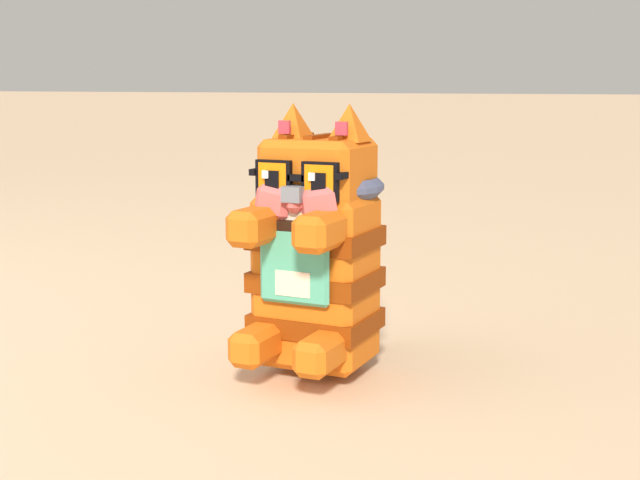
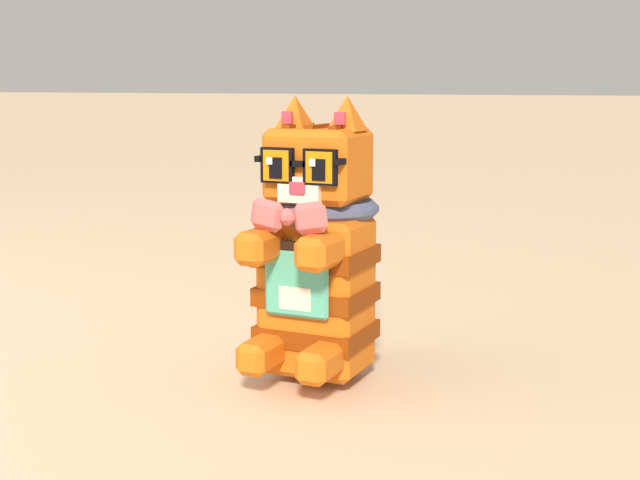
assets: seat the upright cat's head on the collar so the face shows
In the upright pose the head kept the quadruped neck joint and sank into
the top of the body, so the raised front paws covered the muzzle, the
collar ring cut through the head at eye level and the bow tie sat over
the mouth. Poses can now move the Head joint (head_offset, also in
Roblox axes in the manifest); upright moves it 0.32 studs onto the
collar, and the upright BowTie slot sits on the collar above the paws.

Claude-Session: https://claude.ai/code/session_019pgK9B4ra9DvizCEwxEQkX

Changed region(s): [[0.3438, 0.1875, 0.625, 0.8438], [0.9375, 0.1875, 1.0, 0.2188], [0.6562, 0.1875, 0.6875, 0.2188]]

diff --git a/assets/cat-cafe/blender/poses.py b/assets/cat-cafe/blender/poses.py
@@ -2,8 +2,10 @@
 
 A pose moves the whole cat (Body, Head, Tail together) by `rot` degrees (Blender XYZ
 Euler) about the cat-local point `pivot`, then by `offset`, and adds a local rotation
-to the Head and the Tail about their own joints. Positions are in studs, Blender axes
-(Z up, -Y forward); the manifest also gives every value in Roblox axes.
+to the Head and the Tail about their own joints. An optional `head_offset` (cat-local)
+moves the Head joint, for poses where the neck sits somewhere else on the body.
+Positions are in studs, Blender axes (Z up, -Y forward); the manifest also gives every
+value in Roblox axes.
 Roblox: position (x, y, z) -> (-x, z, y), so the front is -Z (LookVector). *_angles_roblox_deg
 go to CFrame.Angles(math.rad(x), math.rad(y), math.rad(z)); body_cframe_roblox is the
 same Body CFrame as CFrame.new(table.unpack(t)), relative to the prop pivot or HumanoidRootPart.
@@ -20,6 +22,7 @@ import common
 # name -> pose. Rescue poses are relative to the prop's pivot.
 POSES = {
     "upright": dict(pivot=(0, 0.5, 0), rot=(-90, 0, 0), offset=(0, 0, 0.3), head=(90, 0, 0), tail=(80, 0, 0),
+                    head_offset=(0, -0.32, 0),  # standing, -Y is up: seats the head on the collar, clear of the paws
                     note="Stands on the hind legs. Same parts; Head pitched back to face forward. Accessories keep their offsets."),
     "carried": dict(pivot=(0, 0, 0), rot=(0, 0, 90), offset=(0, -1.05, -0.4), head=(-10, 0, 0), tail=(-40, 0, 0),
                     note="Cradled across the chest, facing the character's left, so the camera behind the player "
@@ -45,6 +48,10 @@ def _local(angles):
     return Euler([math.radians(a) for a in angles], "XYZ").to_matrix().to_4x4()
 
 
+def _head_shift(pose):
+    return Matrix.Translation(Vector(pose.get("head_offset", (0, 0, 0))))
+
+
 def posed_copies(cat_objs, pose, world=Matrix.Identity(4), prefix="_v_"):
     """Copy a cat's parts and put them in `pose`, under an optional world transform."""
     M = world @ pose_matrix(pose)
@@ -52,12 +59,13 @@ def posed_copies(cat_objs, pose, world=Matrix.Identity(4), prefix="_v_"):
     for ob in cat_objs:
         c = ob.copy()
         c.name = prefix + ob.name
-        extra = Matrix.Identity(4)
+        extra = shift = Matrix.Identity(4)
         if ob.name.endswith("_Head"):
             extra = _local(pose["head"])
+            shift = _head_shift(pose)
         elif ob.name.endswith("_Tail"):
             extra = _local(pose["tail"])
-        c.matrix_world = M @ ob.matrix_world @ extra
+        c.matrix_world = M @ shift @ ob.matrix_world @ extra
         c.hide_render = False
         bpy.context.scene.collection.objects.link(c)
         out.append(c)
@@ -81,11 +89,13 @@ def accessory_copies(built, cat_objs, world=Matrix.Identity(4), pose=None, names
             part, off, r = accessories.ATTACH_UPRIGHT[n]
             acc_rot = _local(r)
         extra = Matrix.Identity(4)
+        shift = Matrix.Identity(4)
         if pose and part == "Head":
             extra = _local(pose["head"])
+            shift = _head_shift(pose)
         elif pose and part == "Tail":
             extra = _local(pose["tail"])
-        base = parts[part].matrix_world @ extra @ Matrix.Translation(Vector(off)) @ acc_rot
+        base = shift @ parts[part].matrix_world @ extra @ Matrix.Translation(Vector(off)) @ acc_rot
         for ob in src:
             c = ob.copy()
             c.name = "_v_" + ob.name
@@ -115,6 +125,8 @@ def manifest_pose(pose):
         "body_angles_roblox_deg": angles,
         "body_cframe_roblox": pos + [round(Rr[i][j], 4) + 0.0 for i in range(3) for j in range(3)],
         "head_angles_roblox_deg": common.euler_to_roblox(pose["head"]),
+        "head_offset_blender": list(pose.get("head_offset", (0, 0, 0))),
+        "head_offset_roblox": common.to_roblox(pose.get("head_offset", (0, 0, 0))),
         "tail_angles_roblox_deg": common.euler_to_roblox(pose["tail"]),
         "note": pose.get("note", ""),
     }

diff --git a/assets/cat-cafe/blender/accessories.py b/assets/cat-cafe/blender/accessories.py
@@ -23,7 +23,7 @@ ATTACH = {
 # Body accessories move to the belly and turn +90 degrees about X (part-local) to stay upright.
 # (part, offset, rotation_xyz_deg). Head slots are unchanged.
 ATTACH_UPRIGHT = {
-    "BowTie": ("Body", (0.0, -0.62, 0.38), (90, 0, 0)),
+    "BowTie": ("Body", (0.0, -0.72, 0.22), (90, 0, 0)),   # on the collar, above the raised paws
     "Apron":  ("Body", (0.0, -0.45, 0.38), (90, 0, 0)),
 }
 

diff --git a/docs/art/style-guide.md b/docs/art/style-guide.md
@@ -220,7 +220,7 @@ After every visual task save 2 to 4 PNGs to `docs/concepts/cat-cafe/` with a one
 
 ## 12. Poses
 
-The slice has no skeleton. A pose is a CFrame for the Body plus a local rotation for the Head and the Tail, so it works for every cat. `manifest.json` carries `poses` (upright, carried) and a `stuck_pose` on each rescue prop (StuckTree, StuckBox, Drainpipe), with every value in both Blender and Roblox axes. Carried is relative to the HumanoidRootPart centre, which sits 3 studs above the floor on a default R15 character (`previews/Pose_Carried.png`). `body_cframe_roblox` is the Body CFrame as 12 numbers for `CFrame.new(table.unpack(t))`. Idle bob and tail wag are tweens the engineer writes (features.md priority 11). Gavin's reference images (in the shared project folder under cat-cafe/docs/concepts/cat-cafe/reference/, not committed because they are not ours) show cube-headed collectible cats with big glossy eyes and an upright cat in a suit; we keep one quadruped rig, gave the eyes a larger glossy highlight, and proved the upright pose with the same parts (`previews/Pose_Upright.png`) so question 15 can go either way without a restart.
+The slice has no skeleton. A pose is a CFrame for the Body plus a local rotation for the Head and the Tail, so it works for every cat. `manifest.json` carries `poses` (upright, carried) and a `stuck_pose` on each rescue prop (StuckTree, StuckBox, Drainpipe), with every value in both Blender and Roblox axes. Carried is relative to the HumanoidRootPart centre, which sits 3 studs above the floor on a default R15 character (`previews/Pose_Carried.png`). `body_cframe_roblox` is the Body CFrame as 12 numbers for `CFrame.new(table.unpack(t))`. A pose can also move the Head joint by `head_offset_roblox`, given in the Body's own frame: upright moves it 0.32 studs, which seats the head on the collar so the raised front paws and the bow tie stay below the face. Idle bob and tail wag are tweens the engineer writes (features.md priority 11). Gavin's reference images (in the shared project folder under cat-cafe/docs/concepts/cat-cafe/reference/, not committed because they are not ours) show cube-headed collectible cats with big glossy eyes and an upright cat in a suit; we keep one quadruped rig, gave the eyes a larger glossy highlight, and proved the upright pose with the same parts (`previews/Pose_Upright.png`) so question 15 can go either way without a restart.
 
 ## 13. Rules
 

diff --git a/assets/cat-cafe/exports/gates.md b/assets/cat-cafe/exports/gates.md
@@ -1,6 +1,6 @@
 # Asset gates
 
-Generated by `build_all.py` on 2026-10-26 17:40 UTC. 63 assets: 63 PASS (32 with warnings), 0 FAIL. FAIL checks: budget, transforms, material, uv, naming. WARN checks: pivot, centered. Fix a FAIL in the generator module and rebuild; a WARN needs a look at the five-view sheet in `docs/concepts/cat-cafe/views/`.
+Generated by `build_all.py` on 2026-10-26 17:48 UTC. 63 assets: 63 PASS (32 with warnings), 0 FAIL. FAIL checks: budget, transforms, material, uv, naming. WARN checks: pivot, centered. Fix a FAIL in the generator module and rebuild; a WARN needs a look at the five-view sheet in `docs/concepts/cat-cafe/views/`.
 
 | asset | result | tris / budget | size (studs) | failed | warnings |
 |---|---|---|---|---|---|
